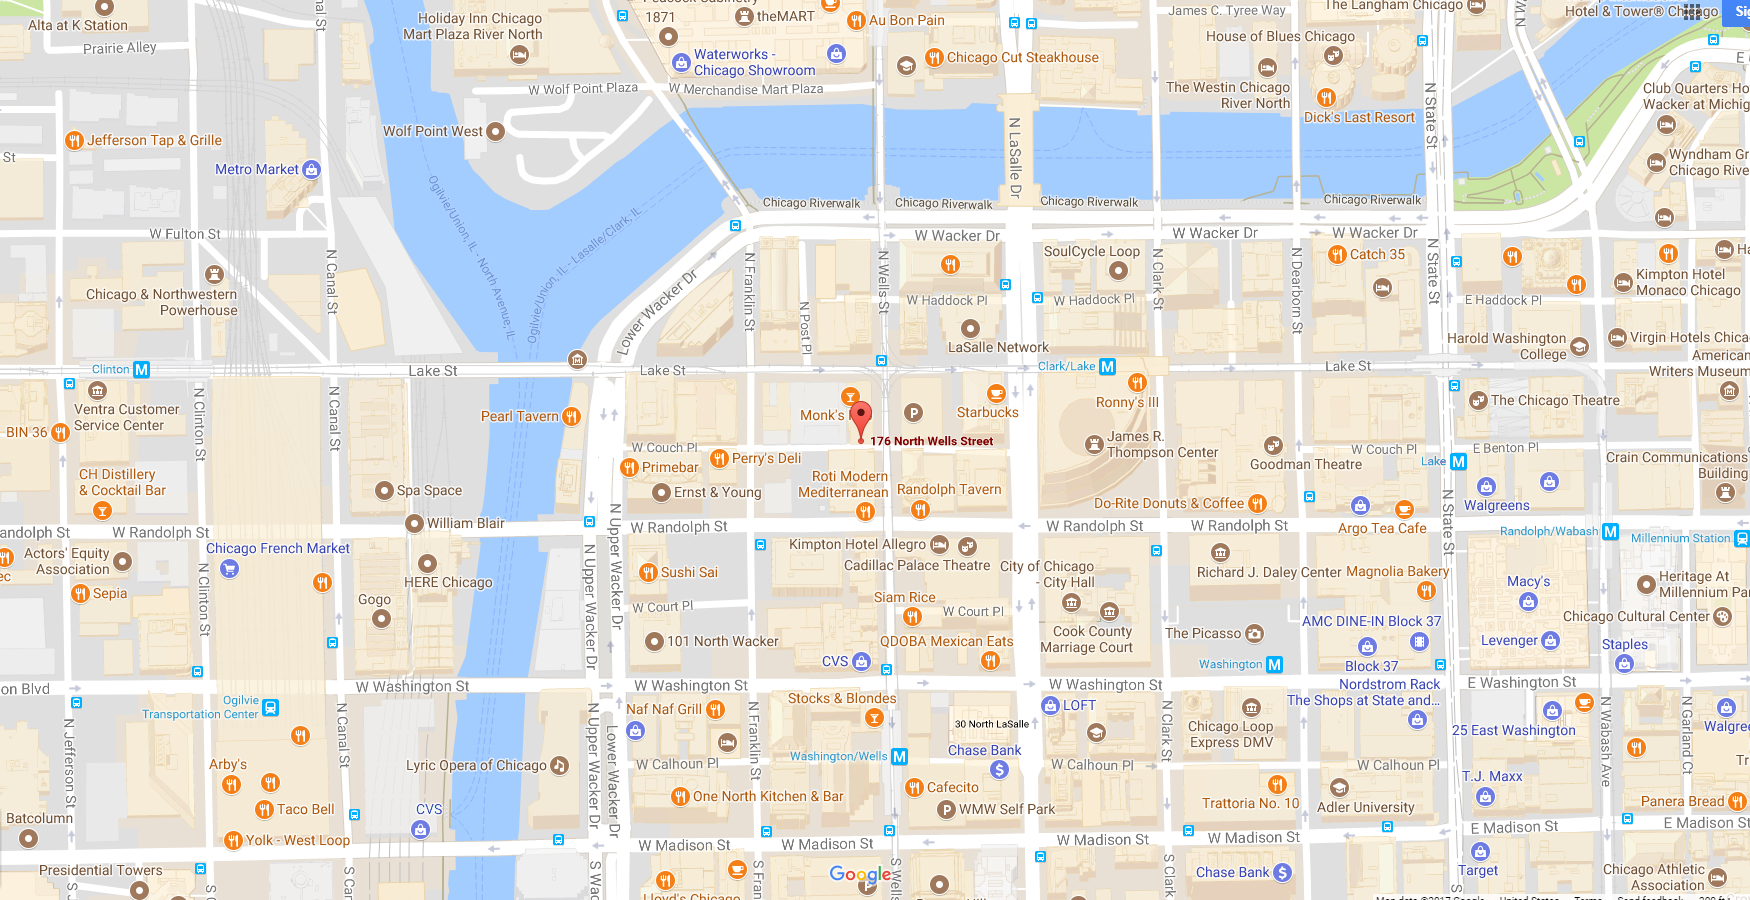
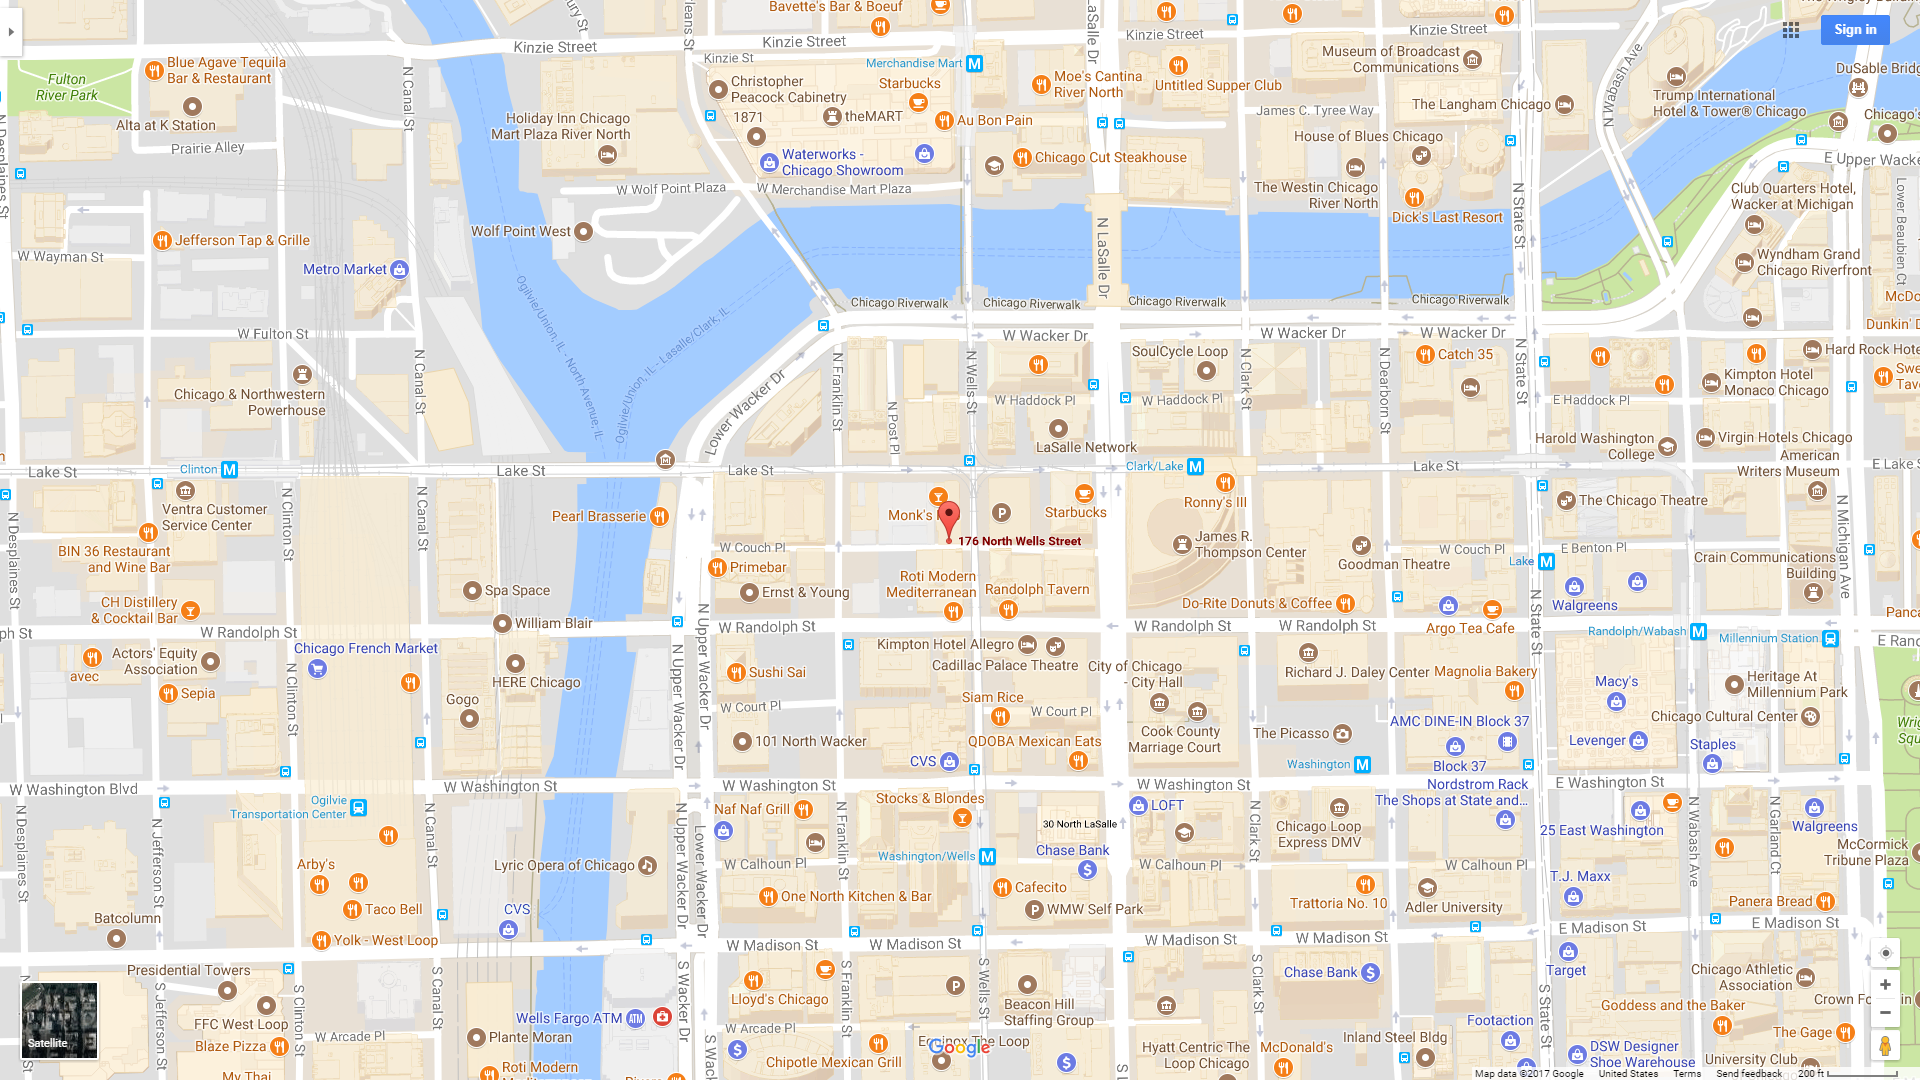
fixed map for mobile

diff --git a/Test_Website.html b/Test_Website.html
@@ -232,18 +232,17 @@
    		</div>
 	</div>
   	<div class="row holder"  id="loction-side">
-  		<div class="col-xs-4 col-md-4">
-  			<img src="img/overlayverticle.png" class="img-responsive"/>
+  		<div class="col-sm-12 col-md-12">
+  			
   			<div class="text-center text-overlay-location">
-				<h3 id="address-head">Location</h3>
-  				<address id="address-body">
+				<h3 id="address-head"><mark class="black">Location</mark></h3>
+  				<address id="address-body"><mark class="black">
   					<strong>Cubano</strong><br>
   					176 N Wells Street<br>
-					Chicago, Illinois 60606<br>
+					Chicago, Illinois 60606</mark><br>
 				</address>
 			</div>
-  		</div>
-   		<div class="col-xs-8 col-md-8" id="mappic">
+  		
    			<a href="https://goo.gl/maps/A7mCbrwnyZn">
    				<img src="img/map1.PNG" class="img-responsive highlight-hover"/>
    				<img src="img/overlaylarge.png" class="outline-background-map highlight-hover"/>

diff --git a/css/container-sizing.css b/css/container-sizing.css
@@ -142,9 +142,9 @@ body {
 
 .text-overlay-location {
     position: absolute;
-    top: 30%;
-    left: 35%;
-    width: 33%;
+    top: 20%;
+    left: 25%;
+    width: 50%;
 	color: black;
 }
 
